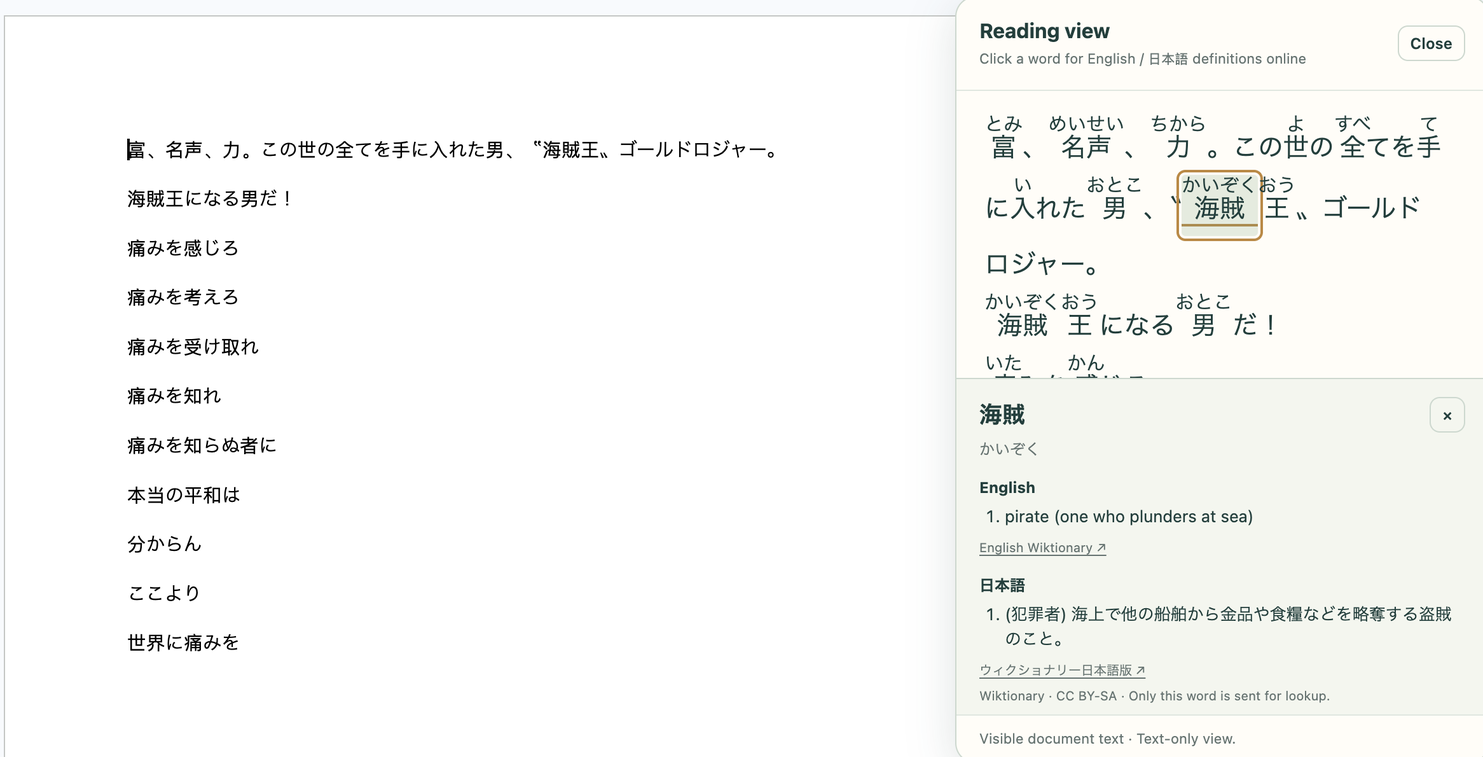
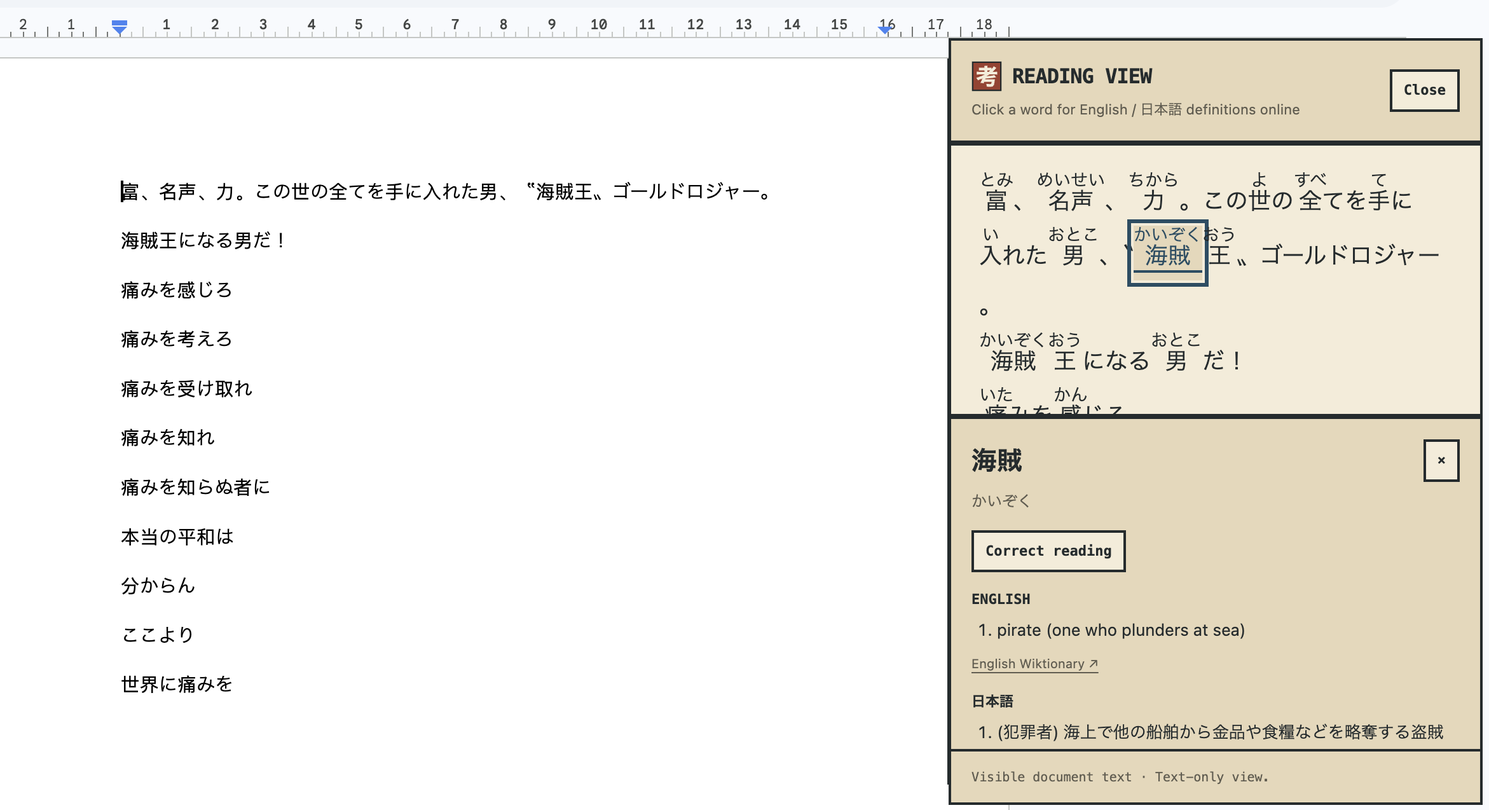
Release Kō 1.0.0 with updated live screenshots

diff --git a/dist/README.md b/dist/README.md
@@ -5,7 +5,7 @@
 <h1 align="center">Kō — Japanese Reading Companion</h1>
 <p align="center"><strong>Japanese reading companion.</strong></p>
 <p align="center">Automatic Japanese readings for webpages and Google Docs.<br>Furigana runs on your device. Optional word definitions use Wiktionary online.</p>
-<p align="center">Version <strong>0.5.0</strong> · 14 October 2026</p>
+<p align="center">Version <strong>1.0.0</strong> · 14 October 2026</p>
 <p align="center">
   <a href="#install-in-chrome">Install in Chrome</a> ·
   <a href="#see-it-in-action">See it in action</a> ·
@@ -25,15 +25,11 @@
 
 ## Release notes
 
-### Current working build
+### 1.0.0 · 14 October 2026
 
 - **Kō — Japanese Reading Companion.** The new name and vermilion 考 seal share the same identity. The interface uses warm paper, ink, indigo, and vermilion inspired by ukiyo-e prints.
-
 - **Brutalist interface.** Square controls, bold headings, ink borders, and an ukiyo-e-inspired palette across the popup, reading panel, definitions, and corrections.
 - **Per-tab 考 icon.** See whether readings are active, paused, or unavailable without opening the menu. Hover over the icon for details.
-
-### 0.5.0 · 14 October 2026
-
 - **Reading view on webpages and Google Docs.** Enable the panel per website. It follows visible text after scrolling settles, including wrapped webpage paragraphs and kana-only words.
 - **Choose your reading size and panel width.** Select 16–32 px text in the popup, or drag the panel’s left edge to resize. Text size, spacing, and width are remembered across sites.
 - **Correct readings where you read.** Open a word’s detail card, choose **Correct reading**, and save its preferred pronunciation—even when online definitions fail. Restore the automatic reading from the same form.
@@ -47,10 +43,10 @@ Read the [full release notes](docs/release-notes.md) for details and update inst
 
 The ready-to-load **Kō — Japanese Reading Companion** extension is included in [`dist/`](). It is distributed through GitHub, not the Chrome Web Store.
 
-1. **Download [this repository](https://github.com/gonzalocibeira/ko-japanese-reading-companion).** Click **Code → Download ZIP** at the top of the GitHub page. For a private repository, sign in with an account that has access.
+1. **Download the [1.0.0 extension ZIP](https://github.com/gonzalocibeira/ko-japanese-reading-companion/releases/download/v1.0.0/ko-japanese-reading-companion-1.0.0.zip).** It contains the ready-to-load `dist` folder. You can also download the full source from [the repository](https://github.com/gonzalocibeira/ko-japanese-reading-companion) using **Code → Download ZIP**.
 2. **Extract and keep the folder.** Put it somewhere permanent, such as `Documents/Ko`.
 3. **Open Chrome's extensions page.** Enter `chrome://extensions` in the address bar and turn on **Developer mode**.
-4. **Load the extension.** Click **Load unpacked** and select the **extension folder** inside the extracted repository. It contains `manifest.json`.
+4. **Load the extension.** Click **Load unpacked** and select the **extension folder** inside the extracted folder. It contains `manifest.json`.
 5. **Reload your tabs and read.** Furigana starts automatically. The first page may take a moment while the bundled reading dictionary loads.
 
 **Tip:** Pin **Kō — Japanese Reading Companion** from Chrome's puzzle-piece **Extensions** menu. Look for the warm-paper **考** (think) on a vermilion seal.
@@ -59,9 +55,7 @@ The ready-to-load **Kō — Japanese Reading Companion** extension is included i
 <summary><strong>Which folder should I select?</strong></summary>
 
 ```text
-ko-japanese-reading-companion-<branch>/
-├── README.md
-├── src/
+ko-japanese-reading-companion-1.0.0/
 └── dist/                  ← Select this folder in “Load unpacked”
     ├── manifest.json
     ├── content.js
@@ -78,11 +72,9 @@ See [Chrome's official instructions for loading unpacked extensions](https://dev
 
 ## See it in action
 
-### New interface and toolbar status
+### Interface and toolbar status
 
 The popup and reading panel use square controls, ink borders, warm paper surfaces, indigo, and vermilion accents. All reading settings, corrections, and backups remain available in the expandable sections.
-
-![The redesigned brutalist extension popup with indigo active status and square controls](docs/screenshots/popup.png)
 
 | Toolbar icon | Meaning |
 | --- | --- |
@@ -91,10 +83,6 @@ The popup and reading panel use square controls, ink borders, warm paper surface
 | **Outlined 考 with a slash** | The page is unavailable, processing failed, or the tab needs a reload. Hover over the icon for the reason. |
 
 Scrolling, typing, and background-tab suspension do not change an otherwise active icon. Click any icon state to open the menu.
-
-![The redesigned reading panel beside a Google Docs browser fixture](docs/screenshots/docs-reading-view.png)
-
-These new screenshots use browser fixtures. The live captures below show the earlier interface and are retained to illustrate real webpage and Google Docs use.
 
 ### On the web
 
@@ -131,7 +119,7 @@ Definitions come from the English and Japanese editions of Wiktionary and requir
 
 You can also focus a word with Tab and open it with Enter or Space. Press Escape or the definition card's **×** button to dismiss it and return to reading.
 
-These screenshots show real use on Japanese Wikipedia and in Google Docs. **Google Docs support is experimental**; compatibility can vary as Google's editor changes. The reading panel is text-only: tables and formatting may be simplified, and images are omitted.
+These screenshots show Kō 1.0 in use on Japanese Wikipedia and in Google Docs. The reading panel is text-only: tables and formatting may be simplified, and images are omitted.
 
 ## Make it yours
 
@@ -187,7 +175,7 @@ Original text nodes, editor values, and document formatting remain unchanged. Ov
 | Some words have no readings | The dictionary may not know the word, or there may be insufficient space. Add a local correction, reduce the reading size, or try the reading view. |
 | A name is read incorrectly | Add its preferred reading under **Local reading corrections**. |
 | Google Docs text is unavailable | Reload the document. If the status persists, that editor version may not expose compatible text geometry. |
-| No readings in a PDF, image, browser settings page, or another canvas app | These surfaces are unsupported. Google Docs has a dedicated experimental adapter. |
+| No readings in a PDF, image, browser settings page, or another canvas app | These surfaces are unsupported. Google Docs has a dedicated text adapter. |
 | Cannot find **Load unpacked** | Enable Developer mode. If the control is unavailable, check whether your browser is managed. |
 
 Webpage text inside editable controls or existing ruby is skipped. Vertical writing, rotated text, and closed shadow roots are unsupported. Overlay readings skip words fragmented across lines; the reading panel can reflow wrapped webpage text. The panel reads the top-level page, without combining embedded-frame text. Very dense or complex viewports can exceed discovery limits.
@@ -238,7 +226,7 @@ npm test
 
 The test suite has **42 tests**, including automatic annotations, unchanged source/layout, a 100,000-node webpage, a 100-page Docs fixture, cancellation, IME handling, settings, corrections, vocabulary/name disambiguation, the reading panel, debounced refreshes, bilingual word definitions, toolbar state and lifecycle, and expanded popup forms. Browser integration tests use a temporary profile and localhost server. They default to Brave's standard macOS executable; set `CHROMIUM_PATH` to an extension-capable Chromium executable elsewhere. Chrome distributions that disable command-line extension loading cannot run these integration tests. Your normal browser profile and Google account are not used.
 
-The README uses real-use screenshots supplied by the project owner. Earlier fixture captures are also preserved in [`docs/screenshots/`](docs/screenshots/). Regenerated browser captures are written to `test-results/` during tests.
+The README uses real-use screenshots supplied by the project owner. The four current screenshots cover webpage overlays, Google Docs overlays, the reading panel, and bilingual word definitions. Earlier fixture captures remain in [`docs/screenshots/`](docs/screenshots/). Regenerated browser captures are written to `test-results/` during tests.
 
 </details>
 

diff --git a/README.md b/README.md
@@ -5,7 +5,7 @@
 <h1 align="center">Kō — Japanese Reading Companion</h1>
 <p align="center"><strong>Japanese reading companion.</strong></p>
 <p align="center">Automatic Japanese readings for webpages and Google Docs.<br>Furigana runs on your device. Optional word definitions use Wiktionary online.</p>
-<p align="center">Version <strong>0.5.0</strong> · 14 October 2026</p>
+<p align="center">Version <strong>1.0.0</strong> · 14 October 2026</p>
 <p align="center">
   <a href="#install-in-chrome">Install in Chrome</a> ·
   <a href="#see-it-in-action">See it in action</a> ·
@@ -25,15 +25,11 @@
 
 ## Release notes
 
-### Current working build
+### 1.0.0 · 14 October 2026
 
 - **Kō — Japanese Reading Companion.** The new name and vermilion 考 seal share the same identity. The interface uses warm paper, ink, indigo, and vermilion inspired by ukiyo-e prints.
-
 - **Brutalist interface.** Square controls, bold headings, ink borders, and an ukiyo-e-inspired palette across the popup, reading panel, definitions, and corrections.
 - **Per-tab 考 icon.** See whether readings are active, paused, or unavailable without opening the menu. Hover over the icon for details.
-
-### 0.5.0 · 14 October 2026
-
 - **Reading view on webpages and Google Docs.** Enable the panel per website. It follows visible text after scrolling settles, including wrapped webpage paragraphs and kana-only words.
 - **Choose your reading size and panel width.** Select 16–32 px text in the popup, or drag the panel’s left edge to resize. Text size, spacing, and width are remembered across sites.
 - **Correct readings where you read.** Open a word’s detail card, choose **Correct reading**, and save its preferred pronunciation—even when online definitions fail. Restore the automatic reading from the same form.
@@ -47,10 +43,10 @@ Read the [full release notes](docs/release-notes.md) for details and update inst
 
 The ready-to-load **Kō — Japanese Reading Companion** extension is included in [`dist/`](dist/). It is distributed through GitHub, not the Chrome Web Store.
 
-1. **Download [this repository](https://github.com/gonzalocibeira/ko-japanese-reading-companion).** Click **Code → Download ZIP** at the top of the GitHub page. For a private repository, sign in with an account that has access.
+1. **Download the [1.0.0 extension ZIP](https://github.com/gonzalocibeira/ko-japanese-reading-companion/releases/download/v1.0.0/ko-japanese-reading-companion-1.0.0.zip).** It contains the ready-to-load `dist` folder. You can also download the full source from [the repository](https://github.com/gonzalocibeira/ko-japanese-reading-companion) using **Code → Download ZIP**.
 2. **Extract and keep the folder.** Put it somewhere permanent, such as `Documents/Ko`.
 3. **Open Chrome's extensions page.** Enter `chrome://extensions` in the address bar and turn on **Developer mode**.
-4. **Load the extension.** Click **Load unpacked** and select the **`dist` folder** inside the extracted repository. It contains `manifest.json`.
+4. **Load the extension.** Click **Load unpacked** and select the **`dist` folder** inside the extracted folder. It contains `manifest.json`.
 5. **Reload your tabs and read.** Furigana starts automatically. The first page may take a moment while the bundled reading dictionary loads.
 
 **Tip:** Pin **Kō — Japanese Reading Companion** from Chrome's puzzle-piece **Extensions** menu. Look for the warm-paper **考** (think) on a vermilion seal.
@@ -59,9 +55,7 @@ The ready-to-load **Kō — Japanese Reading Companion** extension is included i
 <summary><strong>Which folder should I select?</strong></summary>
 
 ```text
-ko-japanese-reading-companion-<branch>/
-├── README.md
-├── src/
+ko-japanese-reading-companion-1.0.0/
 └── dist/                  ← Select this folder in “Load unpacked”
     ├── manifest.json
     ├── content.js
@@ -78,11 +72,9 @@ See [Chrome's official instructions for loading unpacked extensions](https://dev
 
 ## See it in action
 
-### New interface and toolbar status
+### Interface and toolbar status
 
 The popup and reading panel use square controls, ink borders, warm paper surfaces, indigo, and vermilion accents. All reading settings, corrections, and backups remain available in the expandable sections.
-
-![The redesigned brutalist extension popup with indigo active status and square controls](docs/screenshots/popup.png)
 
 | Toolbar icon | Meaning |
 | --- | --- |
@@ -91,10 +83,6 @@ The popup and reading panel use square controls, ink borders, warm paper surface
 | **Outlined 考 with a slash** | The page is unavailable, processing failed, or the tab needs a reload. Hover over the icon for the reason. |
 
 Scrolling, typing, and background-tab suspension do not change an otherwise active icon. Click any icon state to open the menu.
-
-![The redesigned reading panel beside a Google Docs browser fixture](docs/screenshots/docs-reading-view.png)
-
-These new screenshots use browser fixtures. The live captures below show the earlier interface and are retained to illustrate real webpage and Google Docs use.
 
 ### On the web
 
@@ -131,7 +119,7 @@ Definitions come from the English and Japanese editions of Wiktionary and requir
 
 You can also focus a word with Tab and open it with Enter or Space. Press Escape or the definition card's **×** button to dismiss it and return to reading.
 
-These screenshots show real use on Japanese Wikipedia and in Google Docs. **Google Docs support is experimental**; compatibility can vary as Google's editor changes. The reading panel is text-only: tables and formatting may be simplified, and images are omitted.
+These screenshots show Kō 1.0 in use on Japanese Wikipedia and in Google Docs. The reading panel is text-only: tables and formatting may be simplified, and images are omitted.
 
 ## Make it yours
 
@@ -187,7 +175,7 @@ Original text nodes, editor values, and document formatting remain unchanged. Ov
 | Some words have no readings | The dictionary may not know the word, or there may be insufficient space. Add a local correction, reduce the reading size, or try the reading view. |
 | A name is read incorrectly | Add its preferred reading under **Local reading corrections**. |
 | Google Docs text is unavailable | Reload the document. If the status persists, that editor version may not expose compatible text geometry. |
-| No readings in a PDF, image, browser settings page, or another canvas app | These surfaces are unsupported. Google Docs has a dedicated experimental adapter. |
+| No readings in a PDF, image, browser settings page, or another canvas app | These surfaces are unsupported. Google Docs has a dedicated text adapter. |
 | Cannot find **Load unpacked** | Enable Developer mode. If the control is unavailable, check whether your browser is managed. |
 
 Webpage text inside editable controls or existing ruby is skipped. Vertical writing, rotated text, and closed shadow roots are unsupported. Overlay readings skip words fragmented across lines; the reading panel can reflow wrapped webpage text. The panel reads the top-level page, without combining embedded-frame text. Very dense or complex viewports can exceed discovery limits.
@@ -238,7 +226,7 @@ npm test
 
 The test suite has **42 tests**, including automatic annotations, unchanged source/layout, a 100,000-node webpage, a 100-page Docs fixture, cancellation, IME handling, settings, corrections, vocabulary/name disambiguation, the reading panel, debounced refreshes, bilingual word definitions, toolbar state and lifecycle, and expanded popup forms. Browser integration tests use a temporary profile and localhost server. They default to Brave's standard macOS executable; set `CHROMIUM_PATH` to an extension-capable Chromium executable elsewhere. Chrome distributions that disable command-line extension loading cannot run these integration tests. Your normal browser profile and Google account are not used.
 
-The README uses real-use screenshots supplied by the project owner. Earlier fixture captures are also preserved in [`docs/screenshots/`](docs/screenshots/). Regenerated browser captures are written to `test-results/` during tests.
+The README uses real-use screenshots supplied by the project owner. The four current screenshots cover webpage overlays, Google Docs overlays, the reading panel, and bilingual word definitions. Earlier fixture captures remain in [`docs/screenshots/`](docs/screenshots/). Regenerated browser captures are written to `test-results/` during tests.
 
 </details>
 

diff --git a/dist/docs/release-notes.md b/dist/docs/release-notes.md
@@ -1,15 +1,17 @@
 # Release notes
 
-## Unreleased · Kō branding, woodblock palette, and toolbar status
+## 1.0.0 · 14 October 2026
+
+The first 1.0 release of **Kō — Japanese Reading Companion** brings automatic offline furigana to webpages and Google Docs, with a spacious reading panel and optional bilingual word definitions.
 
 - Renamed the extension **Kō — Japanese Reading Companion**, aligning its name with the 考 mark. Warm paper, ink, muted indigo, and a vermilion seal replace the cobalt-and-gray palette. Repository, npm package, downloads, and internal UI identifiers now use `ko-japanese-reading-companion` / `ko-`. Existing saved settings, corrections, and version 1 backups are retained.
-
 - Redesigned the popup, reading panel, definition cards, and correction forms with square controls, bold monospace headings, ink borders, warm paper surfaces, indigo, and vermilion accents. Japanese reading text keeps a readable system font. The popup is 380 px wide with expandable settings and keyboard focus indicators.
 - The new 考 (think) mark appears in the popup, reading-panel header, and toolbar. A vermilion icon means readings are enabled and available on this tab; a sand-colored icon with a pause indicator means global or site pause; an outlined icon with a slash means unavailable or a reload is needed. Hover for the reason. The popup remains accessible in all states.
 - The toolbar stays active without visible kanji and during scrolling, typing, or background-tab processing pauses. State updates follow navigation, tab activation, preferences, availability recovery, and service-worker restarts. Embedded frames cannot set the top-level icon.
-- Existing settings, corrections, backup formats, overlay appearance, and permissions are preserved.
+- The reading panel supports 16–32 px text, adjustable line spacing, and pointer or keyboard resizing. Click words for English and Japanese definitions, or save a preferred reading directly in the panel.
+- Search, export, and import local reading corrections. Existing settings, corrections, backup formats, overlay appearance, and permissions are preserved.
 
-Reload the extension, then reload open webpages and Google Docs tabs. The new screenshots in the README use browser fixtures; earlier live captures are retained for compatibility context.
+Reload the extension, then reload open webpages and Google Docs tabs. The README now uses four current screenshots of real webpage and Google Docs use. Download the ready-to-load extension ZIP from the [1.0.0 release](https://github.com/gonzalocibeira/ko-japanese-reading-companion/releases/tag/v1.0.0).
 
 ## 0.5.0 · 14 October 2026
 
@@ -19,7 +21,7 @@ Reload the extension, then reload open webpages and Google Docs tabs. The new sc
 - Search corrections by word or reading. Export a version 1 JSON backup or import one up to 256 KiB. Imports keep existing readings on conflicts and reject malformed or over-capacity backups without partial changes.
 - No new dependencies or permissions. Furigana stays offline; explicit word definitions use the same Wiktionary services on webpages and Docs.
 
-Reload the extension from the rebuilt `dist/` folder, then reload open tabs. The panel still uses text-only extraction; browser-protected pages, images, PDFs, unsupported canvas editors, and cross-frame aggregation remain unsupported. Live Google Docs compatibility remains experimental.
+Reload the extension from the rebuilt `dist/` folder, then reload open tabs. The panel still uses text-only extraction; browser-protected pages, images, PDFs, unsupported canvas editors, and cross-frame aggregation remain unsupported.
 
 ## 0.4.0 · 14 October 2026
 
@@ -48,7 +50,7 @@ This release adds bilingual word definitions, steadier Google Docs reading-panel
 
 ### Validation
 
-The release is checked with `npm run build`, `npm run typecheck`, and all 27 Playwright tests. Tests include the actual bundled dictionary, Docs overlays and word metadata, name and sentence readings, saved corrections, definition lookups, refresh behavior, and existing large-document and IME fixtures. Browser tests use a temporary profile and synthetic documents; live Google Docs compatibility remains experimental.
+The release is checked with `npm run build`, `npm run typecheck`, and all 27 Playwright tests. Tests include the actual bundled dictionary, Docs overlays and word metadata, name and sentence readings, saved corrections, definition lookups, refresh behavior, and existing large-document and IME fixtures. Browser tests use a temporary profile and synthetic documents.
 
 ### Updating
 

diff --git a/docs/release-notes.md b/docs/release-notes.md
@@ -1,15 +1,17 @@
 # Release notes
 
-## Unreleased · Kō branding, woodblock palette, and toolbar status
+## 1.0.0 · 14 October 2026
+
+The first 1.0 release of **Kō — Japanese Reading Companion** brings automatic offline furigana to webpages and Google Docs, with a spacious reading panel and optional bilingual word definitions.
 
 - Renamed the extension **Kō — Japanese Reading Companion**, aligning its name with the 考 mark. Warm paper, ink, muted indigo, and a vermilion seal replace the cobalt-and-gray palette. Repository, npm package, downloads, and internal UI identifiers now use `ko-japanese-reading-companion` / `ko-`. Existing saved settings, corrections, and version 1 backups are retained.
-
 - Redesigned the popup, reading panel, definition cards, and correction forms with square controls, bold monospace headings, ink borders, warm paper surfaces, indigo, and vermilion accents. Japanese reading text keeps a readable system font. The popup is 380 px wide with expandable settings and keyboard focus indicators.
 - The new 考 (think) mark appears in the popup, reading-panel header, and toolbar. A vermilion icon means readings are enabled and available on this tab; a sand-colored icon with a pause indicator means global or site pause; an outlined icon with a slash means unavailable or a reload is needed. Hover for the reason. The popup remains accessible in all states.
 - The toolbar stays active without visible kanji and during scrolling, typing, or background-tab processing pauses. State updates follow navigation, tab activation, preferences, availability recovery, and service-worker restarts. Embedded frames cannot set the top-level icon.
-- Existing settings, corrections, backup formats, overlay appearance, and permissions are preserved.
+- The reading panel supports 16–32 px text, adjustable line spacing, and pointer or keyboard resizing. Click words for English and Japanese definitions, or save a preferred reading directly in the panel.
+- Search, export, and import local reading corrections. Existing settings, corrections, backup formats, overlay appearance, and permissions are preserved.
 
-Reload the extension, then reload open webpages and Google Docs tabs. The new screenshots in the README use browser fixtures; earlier live captures are retained for compatibility context.
+Reload the extension, then reload open webpages and Google Docs tabs. The README now uses four current screenshots of real webpage and Google Docs use. Download the ready-to-load extension ZIP from the [1.0.0 release](https://github.com/gonzalocibeira/ko-japanese-reading-companion/releases/tag/v1.0.0).
 
 ## 0.5.0 · 14 October 2026
 
@@ -19,7 +21,7 @@ Reload the extension, then reload open webpages and Google Docs tabs. The new sc
 - Search corrections by word or reading. Export a version 1 JSON backup or import one up to 256 KiB. Imports keep existing readings on conflicts and reject malformed or over-capacity backups without partial changes.
 - No new dependencies or permissions. Furigana stays offline; explicit word definitions use the same Wiktionary services on webpages and Docs.
 
-Reload the extension from the rebuilt `dist/` folder, then reload open tabs. The panel still uses text-only extraction; browser-protected pages, images, PDFs, unsupported canvas editors, and cross-frame aggregation remain unsupported. Live Google Docs compatibility remains experimental.
+Reload the extension from the rebuilt `dist/` folder, then reload open tabs. The panel still uses text-only extraction; browser-protected pages, images, PDFs, unsupported canvas editors, and cross-frame aggregation remain unsupported.
 
 ## 0.4.0 · 14 October 2026
 
@@ -48,7 +50,7 @@ This release adds bilingual word definitions, steadier Google Docs reading-panel
 
 ### Validation
 
-The release is checked with `npm run build`, `npm run typecheck`, and all 27 Playwright tests. Tests include the actual bundled dictionary, Docs overlays and word metadata, name and sentence readings, saved corrections, definition lookups, refresh behavior, and existing large-document and IME fixtures. Browser tests use a temporary profile and synthetic documents; live Google Docs compatibility remains experimental.
+The release is checked with `npm run build`, `npm run typecheck`, and all 27 Playwright tests. Tests include the actual bundled dictionary, Docs overlays and word metadata, name and sentence readings, saved corrections, definition lookups, refresh behavior, and existing large-document and IME fixtures. Browser tests use a temporary profile and synthetic documents.
 
 ### Updating
 

diff --git a/dist/docs/technical-notes.md b/dist/docs/technical-notes.md
@@ -40,7 +40,7 @@ Only an explicit word click sends a `define-word` message. The service worker ac
 
 ## Google Docs compatibility
 
-**The Docs adapter is experimental. Live inspection identified padded text rectangles and overlapping tiles in a signed-in pageless editor. Version 0.1.1 corrects these cases and passes browser regression fixtures; the revised build still needs verification in the live editor.**
+The Docs adapter supports paged and pageless editors, including padded text rectangles and overlapping tiles.
 
 Docs renders text on canvas, so ordinary webpage text extraction does not work there. The adapter sets `_docs_annotate_canvas_by_ext` to its own extension ID at document start and reads annotated SVG rectangles, their `aria-label` text, and `data-font-css` font metadata. These are undocumented Google internals and can change or be unavailable. If text geometry is unavailable, the toolbar status says so; the extension never substitutes guessed text or remotely processes a document. It does not impersonate another extension.
 

diff --git a/docs/technical-notes.md b/docs/technical-notes.md
@@ -40,7 +40,7 @@ Only an explicit word click sends a `define-word` message. The service worker ac
 
 ## Google Docs compatibility
 
-**The Docs adapter is experimental. Live inspection identified padded text rectangles and overlapping tiles in a signed-in pageless editor. Version 0.1.1 corrects these cases and passes browser regression fixtures; the revised build still needs verification in the live editor.**
+The Docs adapter supports paged and pageless editors, including padded text rectangles and overlapping tiles.
 
 Docs renders text on canvas, so ordinary webpage text extraction does not work there. The adapter sets `_docs_annotate_canvas_by_ext` to its own extension ID at document start and reads annotated SVG rectangles, their `aria-label` text, and `data-font-css` font metadata. These are undocumented Google internals and can change or be unavailable. If text geometry is unavailable, the toolbar status says so; the extension never substitutes guessed text or remotely processes a document. It does not impersonate another extension.
 
